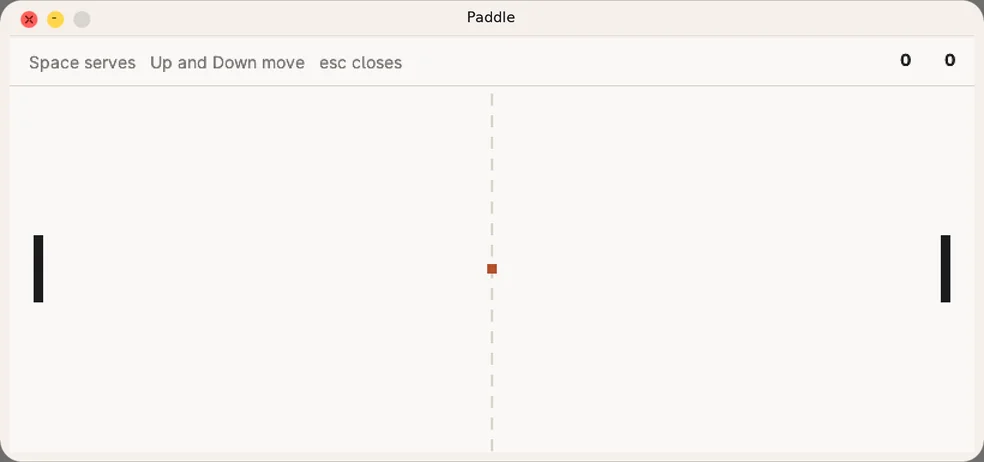
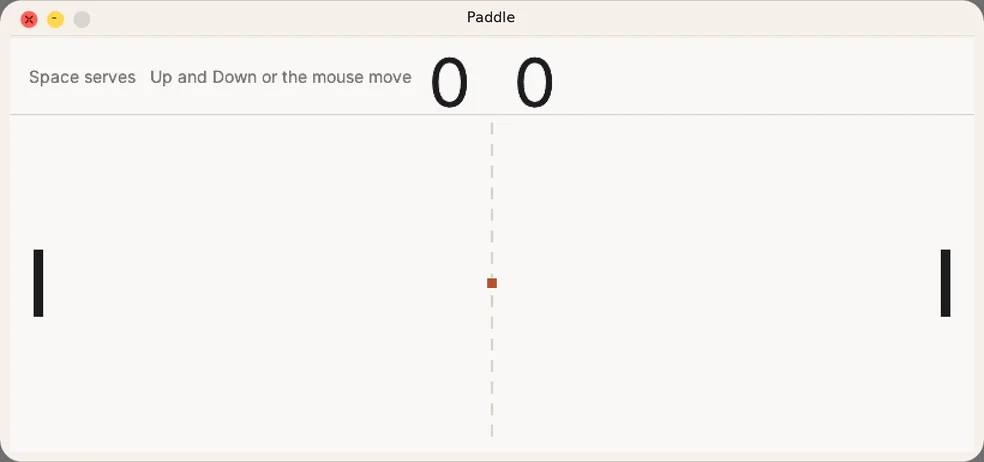
13.9.4: Paddle, A+ pass: glide controls, the mouse and wheel, a ball trail, hit flash and blips, a big score and a rally count
Joshua's board test: "we can't even control our character". The freeze was the kernel's whole-window present (fixed in 13.9.3); this is the game itself, after a /mobbin pass over Atari Recharged, Pongfinity and Pong Quest.
- A key press glides the paddle 28 px instead of jumping 22, and the key's repeat keeps it gliding while held; a click or drag in the court eases it under the pointer, the wheel nudges it, a click serves or plays again.
- The ball leaves a short trail and blinks while it waits to serve; a paddle flashes terracotta when it returns the ball.
- Short blips for a hit, a wall and a point (8 kHz square waves through JT_SYS_AUDIO).
- The score sits big in the middle of a taller band (64 px), the rally and the best rally at the right.
The ball and computer physics are unchanged: games-sim-check.py plays them to the end, ring3-paddle-check.py (i386) and arm64-games-check.py still pass.

Claude-Session: https://claude.ai/code/session_015joN7tpj9TqnvKz8N9fmPL

diff --git a/landing/index.html b/landing/index.html
@@ -697,7 +697,7 @@ p,li,.sub{text-wrap:pretty}
 <section class="facts reveal" aria-label="Joshua Tree by the numbers">
   <div class="facts-row two">
     <div class="fact"><strong><span data-fact="apps">38</span></strong><span class="label">Apps</span></div>
-    <div class="fact"><strong>v<span data-fact="version">13.9.1</span></strong><span class="label">Version</span></div>
+    <div class="fact"><strong>v<span data-fact="version">13.9.4</span></strong><span class="label">Version</span></div>
   </div>
   <div class="boot-cta">
     <a class="boot-btn" href="https://github.com/nulljosh/joshuatree/releases/latest/download/joshuatree.iso">Download PC ISO</a>
@@ -999,7 +999,7 @@ p,li,.sub{text-wrap:pretty}
     </div>
   </nav>
   <div class="foot-bar">
-    <p class="foot-meta">Joshua Tree v<span data-fact="version">13.9.1</span> &middot; Apache License 2.0 &middot; &copy; 2026 Joshua Trommel &middot; Made with <span class="heart">&hearts;</span> in Vancouver, BC</p>
+    <p class="foot-meta">Joshua Tree v<span data-fact="version">13.9.4</span> &middot; Apache License 2.0 &middot; &copy; 2026 Joshua Trommel &middot; Made with <span class="heart">&hearts;</span> in Vancouver, BC</p>
   </div>
   <div class="foot-landscape" aria-hidden="true"><canvas></canvas></div>
 </footer>

diff --git a/user/paddle.c b/user/paddle.c
@@ -8,6 +8,14 @@
  *
  * Only what moved is repainted: the old ball and paddles are wiped to the
  * court colour and drawn again, so a step is a few hundred pixels.
+ *
+ * 13.10 (Joshua's board test: "we can't even control our character"): a key
+ * press glides the paddle instead of jumping it, and the key's own repeat keeps
+ * it gliding while held; a click or drag in the court puts it under the
+ * pointer and the wheel nudges it. The ball leaves a short trail, a paddle
+ * flashes when it returns the ball, each hit, wall and point has a short
+ * blip, the score sits big in the middle of the band, and the band counts the
+ * rally and keeps the best one. The ball blinks while it waits to serve.
  * tools/checks/ring3-paddle-check.py watches the ball move, a key move the
  * paddle and a point get scored.
  */
@@ -21,13 +29,19 @@
 #define BALLC 0x00B5502C
 #define HINT  0x0075726E
 
-#define TOP   40      /* the score band above the court */
+#define TOP   64      /* the score band above the court: tall enough for the big score (13.10; 40 before) */
 #define PW    8
 #define PH    56
 #define BS    8
 #define PX    20      /* the paddles' distance from the sides */
 #define FP    16      /* positions are in sixteenths of a pixel */
 #define WIN_AT 7
+#define GLIDE  4      /* pixels a tick while a key holds the paddle */
+#define HOLD   7      /* ticks one press glides: a tap moves 28 px; the key repeat keeps a held key going */
+#define TRAIL  4
+#define TRAILC 0x00E9B9A2   /* the ball's colour washed toward the court */
+#define FLASH  8
+#define RATE   8000
 
 static struct jt_window_info win JT_DATA = {0, 0, 0, 0};
 static int bx JT_DATA = 0, by JT_DATA = 0, vx JT_DATA = 0, vy JT_DATA = 0;   /* the ball, in FP units */
@@ -35,6 +49,20 @@ static int ly JT_DATA = 0, ry JT_DATA = 0;                                   /* 
 static int me JT_DATA = 0, cpu JT_DATA = 0, wait JT_DATA = 0, paused JT_DATA = 0, over JT_DATA = 0, ready JT_DATA = 0;   /* ready: space served the first ball */
 static int oldbx JT_DATA = -1, oldby JT_DATA = -1, oldly JT_DATA = -1, oldry JT_DATA = -1;
 static unsigned seed JT_DATA = 0x6D2B79F5u;
+static int pv JT_DATA = 0, hold JT_DATA = 0, aim JT_DATA = -1;   /* the glide: direction and ticks left; aim: a pointer's target top, -1 none */
+static int tx[TRAIL] JT_DATA = {-1, -1, -1, -1}, ty[TRAIL] JT_DATA = {-1, -1, -1, -1};   /* the trail, newest first */
+static int lflash JT_DATA = 0, rflash JT_DATA = 0, rally JT_DATA = 0, best JT_DATA = 0;
+static unsigned char blip[RATE / 12] JT_DATA = {0};
+
+static void beep(unsigned hz, unsigned ms, unsigned vol) {   /* a soft square wave with a quick fade: hit, wall, point */
+    unsigned n = RATE * ms / 1000; if (n > sizeof blip) n = sizeof blip;
+    unsigned half = RATE / hz / 2; if (!half) half = 1;
+    for (unsigned i = 0; i < n; i++) {
+        unsigned amp = vol * (n - i) / n;
+        blip[i] = (unsigned char)((i / half) & 1 ? 128 + amp : 128 - amp);
+    }
+    jt_audio_play(blip, n, RATE, JT_AUDIO_END);
+}
 
 static unsigned rnd(void) { seed ^= seed << 13; seed ^= seed >> 17; seed ^= seed << 5; return seed; }
 static void say(const char *s) { unsigned n = 0; while (s[n]) n++; jt_write(1, s, n); }
@@ -73,32 +101,54 @@ static void scores(void) {
     rect(0, 0, cw(), TOP, BG);
     rect(0, TOP - 1, cw(), 1, LINE);
     utoa10((unsigned)me, a); utoa10((unsigned)cpu, b);
-    int bx = cw() - 16 - jt_text_width(JT_FACE_BOLD, b);   /* you, then the computer, at the bar's right end like Bricks and Snake */
-    text(b, bx, 10, INK, JT_FACE_BOLD);
-    text(a, bx - 28 - jt_text_width(JT_FACE_BOLD, a), 10, INK, JT_FACE_BOLD);
+    int mid = cw() / 2;   /* you on the left of the line, the computer on the right, over their own halves */
+    text(a, mid - 18 - jt_text_width(JT_FACE_DISPLAY, a), 4, INK, JT_FACE_DISPLAY);
+    text(b, mid + 18, 4, INK, JT_FACE_DISPLAY);
     const char *msg = over ? (me > cpu ? "You win. Space plays again." : "The computer wins. Space plays again.")
-                    : paused ? "Paused. p plays on." : !ready ? "Space serves   Up and Down move   esc closes" : "Up and Down move   p pauses   esc closes";
-    text(msg, 16, 12, over && me > cpu ? 0x002F7B4F : HINT, JT_FACE_BODY);
+                    : paused ? "Paused. p plays on." : !ready ? "Space serves   Up and Down or the mouse move" : "p pauses   esc closes";
+    text(msg, 16, TOP / 2 - 8, over && me > cpu ? 0x002F7B4F : HINT, JT_FACE_BODY);
+    if (ready && !over) {   /* the rally, and the best one this session, at the right end */
+        char line[32] = "Rally "; int l = 6;
+        l += utoa10((unsigned)rally, line + l);
+        const char *bb = "   best "; while (*bb) line[l++] = *bb++;
+        l += utoa10((unsigned)best, line + l); line[l] = 0;
+        text(line, cw() - 16 - jt_text_width(JT_FACE_BODY, line), TOP / 2 - 8, HINT, JT_FACE_BODY);
+    }
 }
 static void full(void) {
     rect(0, TOP, cw(), chh(), BG);
     scores(); court();
     oldbx = oldby = oldly = oldry = -1;
+    for (int i = 0; i < TRAIL; i++) tx[i] = ty[i] = -1;
 }
 static void frame(void) {   /* wipe what moved, draw it again */
     int nbx = bx / FP, nby = by / FP;
-    if (oldbx >= 0 && (oldbx != nbx || oldby != nby)) rect(oldbx, oldby, BS, BS, BG);
+    for (int i = 0; i < TRAIL; i++) if (tx[i] >= 0) rect(tx[i], ty[i], BS, BS, BG);   /* the old trail goes first */
+    if (oldbx >= 0 && (oldbx != nbx || oldby != nby)) {
+        rect(oldbx, oldby, BS, BS, BG);
+        for (int i = TRAIL - 1; i > 0; i--) { tx[i] = tx[i - 1]; ty[i] = ty[i - 1]; }
+        tx[0] = oldbx; ty[0] = oldby;
+    }
     if (oldly >= 0 && oldly != ly) rect(PX, oldly, PW, PH, BG);
     if (oldry >= 0 && oldry != ry) rect(cw() - PX - PW, oldry, PW, PH, BG);
     court();
-    rect(PX, ly, PW, PH, INK);
-    rect(cw() - PX - PW, ry, PW, PH, INK);
-    if (!over) rect(nbx, nby, BS, BS, BALLC);
+    int live = !over && !wait && ready;
+    for (int i = TRAIL - 1; i >= 0; i--) if (live && tx[i] >= 0) {   /* each older one smaller, centred on where the ball was */
+        int sz = BS - 1 - i * 3 / 2; if (sz < 3) sz = 3;
+        rect(tx[i] + (BS - sz) / 2, ty[i] + (BS - sz) / 2, sz, sz, TRAILC);
+    }
+    if (!live) for (int i = 0; i < TRAIL; i++) tx[i] = ty[i] = -1;
+    rect(PX, ly, PW, PH, lflash ? BALLC : INK);
+    rect(cw() - PX - PW, ry, PW, PH, rflash ? BALLC : INK);
+    int show = !over && (!wait || !ready || (wait / 12) % 2 == 0);   /* it blinks while it waits to serve */
+    if (show) rect(nbx, nby, BS, BS, BALLC);
+    else if (!over) rect(nbx, nby, BS, BS, BG);
     oldbx = nbx; oldby = nby; oldly = ly; oldry = ry;
 }
 
 static void point(int mine) {
     if (mine) me++; else cpu++;
+    beep(mine ? 660 : 196, 140, 60); rally = 0;
     char line[40] = "paddle: score "; int l = 14;
     l += utoa10((unsigned)me, line + l); line[l++] = '-';
     l += utoa10((unsigned)cpu, line + l); line[l++] = '\n'; line[l] = 0;
@@ -110,6 +160,18 @@ static void point(int mine) {
 }
 static int clampy(int y) { if (y < TOP) y = TOP; if (y > (int)win.height - PH) y = (int)win.height - PH; return y; }
 
+static void glide(void) {   /* the player's paddle, every tick, served or not */
+    if (over || paused) return;
+    if (hold) { ly = clampy(ly + pv); hold--; }
+    else if (aim >= 0) {   /* ease toward the pointer: a third of the way each tick, at least a pixel */
+        int d = aim - ly; if (!d) { aim = -1; return; }
+        int m = d / 3; if (!m) m = d > 0 ? 1 : -1;
+        ly = clampy(ly + m);
+        if (ly == clampy(aim)) aim = -1;
+    }
+    if (lflash) lflash--;
+    if (rflash) rflash--;
+}
 static void step(void) {
     if (over || paused || !ready) return;
     /* the computer follows the ball once it crosses into its half, a little slower than the ball can move: without
@@ -120,18 +182,20 @@ static void step(void) {
     if (wait) { wait--; return; }
     bx += vx; by += vy;
     int top = TOP * FP, bot = ((int)win.height - BS) * FP;
-    if (by < top) { by = top; vy = -vy; }
-    if (by > bot) { by = bot; vy = -vy; }
+    if (by < top) { by = top; vy = -vy; beep(330, 20, 22); }
+    if (by > bot) { by = bot; vy = -vy; beep(330, 20, 22); }
     int x = bx / FP, y = by / FP;
     /* a paddle sends it back, steeper the further from the middle it hits, and a touch faster */
     if (vx < 0 && x <= PX + PW && x + BS >= PX && y + BS >= ly && y <= ly + PH) {
         bx = (PX + PW) * FP; vx = -vx + 2; vy = (y + BS / 2 - (ly + PH / 2)) * 2;
         if (vx > 7 * FP) vx = 7 * FP;
+        lflash = FLASH; rally++; if (rally > best) best = rally; beep(523, 35, 50); scores();
     }
     int rx = cw() - PX - PW;
     if (vx > 0 && x + BS >= rx && x <= rx + PW && y + BS >= ry && y <= ry + PH) {
         bx = (rx - BS) * FP; vx = -vx - 2; vy = (y + BS / 2 - (ry + PH / 2)) * 2;
         if (vx < -7 * FP) vx = -7 * FP;
+        rflash = FLASH; beep(392, 35, 40);
     }
     if (x + BS < 0) point(0);
     else if (x > cw()) point(1);
@@ -161,12 +225,15 @@ void _start(int argc, char **argv) {
                 int k = ev.a;
                 if (k == '`') { say("paddle: crashing on purpose\n"); *(volatile unsigned *)0 = 1; }
                 if (k == JT_KEY_ESC) break;
-                if (k == JT_KEY_UP || k == 'w') ly = clampy(ly - 22);
-                else if (k == JT_KEY_DOWN || k == 's') ly = clampy(ly + 22);
+                if (k == JT_KEY_UP || k == 'w') { pv = -GLIDE; hold = HOLD; aim = -1; }
+                else if (k == JT_KEY_DOWN || k == 's') { pv = GLIDE; hold = HOLD; aim = -1; }
                 else if (k == 'p' && !over) { paused = !paused; scores(); }
                 else if (k == ' ' && over) { reset(); full(); }
                 else if (k == ' ' && !ready) { ready = 1; scores(); }
-            }
+            } else if (ev.kind == JT_EV_CLICK || ev.kind == JT_EV_DRAG) {   /* the paddle goes under the pointer; a click serves or plays again */
+                if (ev.b >= TOP) { aim = clampy(ev.b - PH / 2); hold = 0; }
+                if (ev.kind == JT_EV_CLICK && ev.b >= TOP) { if (over) { reset(); full(); } else if (!ready) { ready = 1; scores(); } }
+            } else if (ev.kind == JT_EV_WHEEL) { pv = ev.a > 0 ? GLIDE : -GLIDE; hold = HOLD; aim = -1; }
             frame(); flags = JT_POLL_PRESENT;
             continue;
         }
@@ -174,7 +241,7 @@ void _start(int argc, char **argv) {
         unsigned t = now();
         if (t != last) {
             unsigned n = t - last; if (n > 5) n = 5;   /* a long stall does not fast-forward the game */
-            while (n--) step();
+            while (n--) { glide(); step(); }
             last = t;
             frame(); flags = JT_POLL_PRESENT;
         } else jt_sched_yield();
